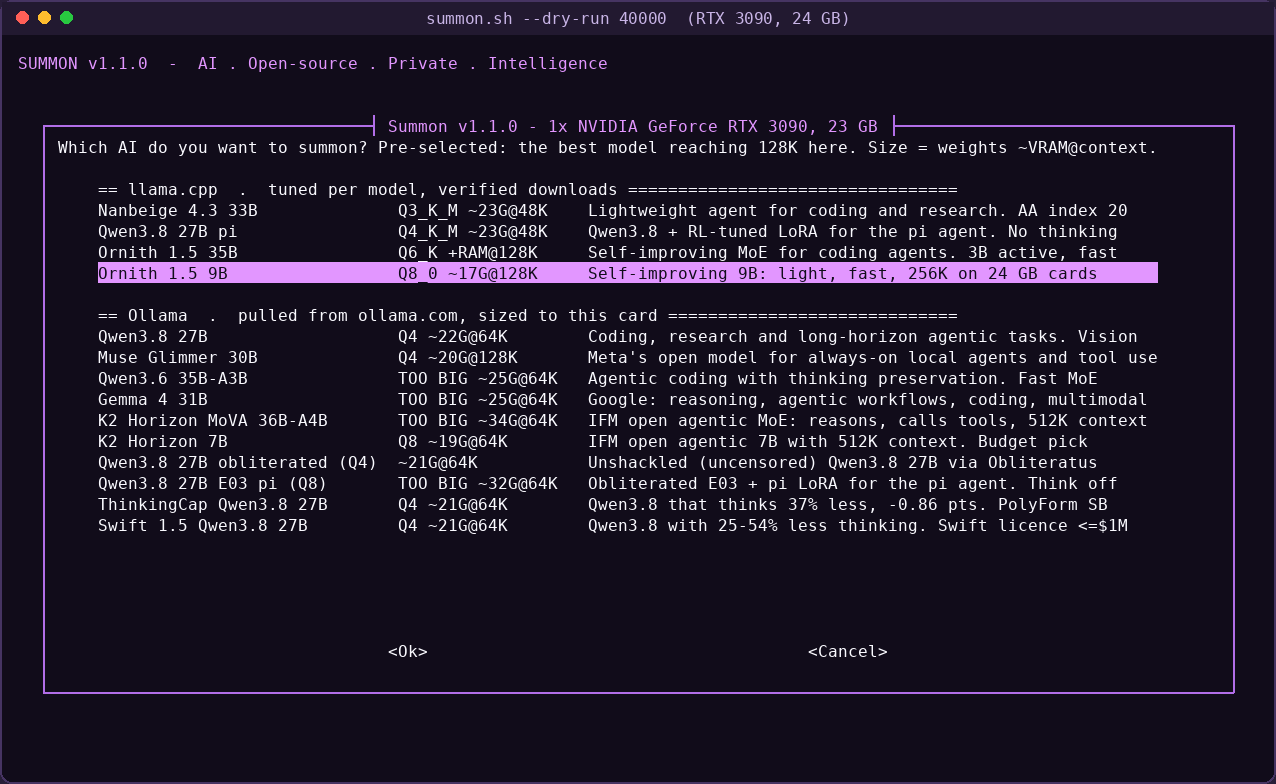
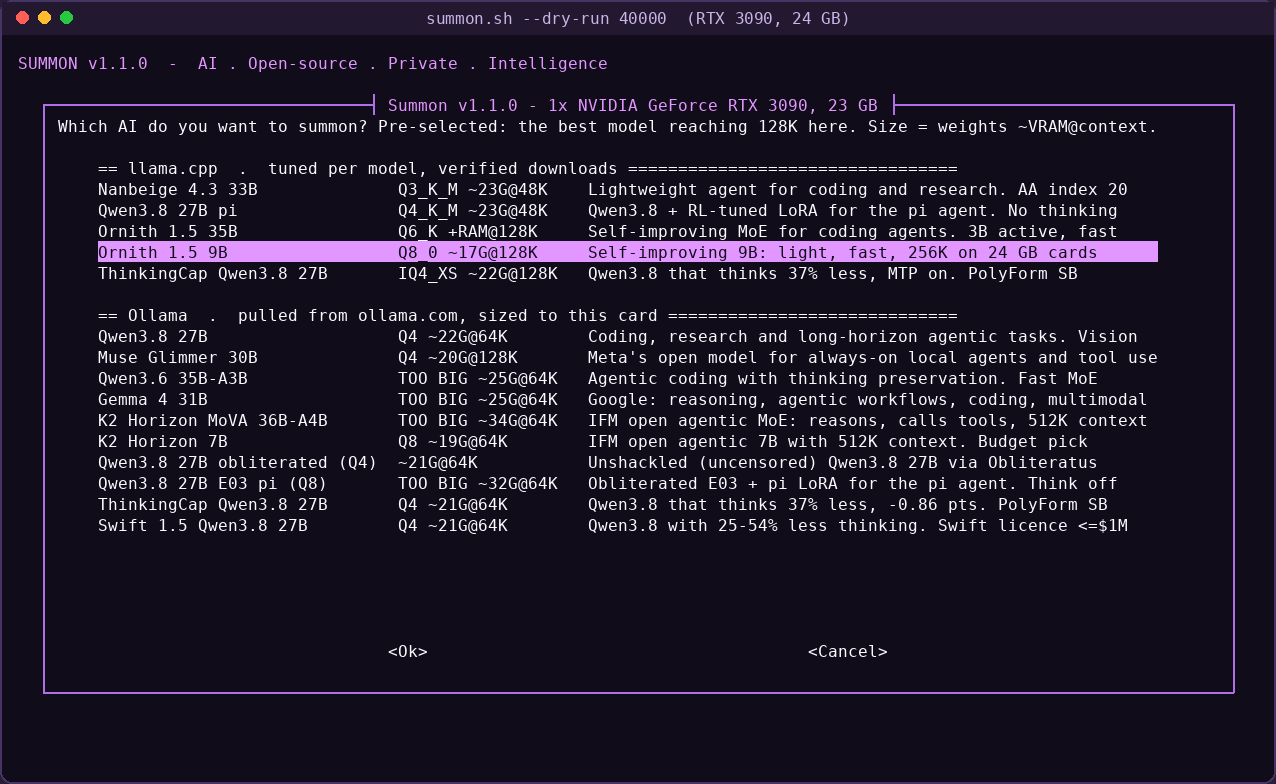
Add ThinkingCap Qwen3.8 27B to the llama.cpp catalog with its built-in MTP head
- bottlecapai GGUFs (Q8_0/Q6_K/Q4_K_M/IQ4_XS, sizes + sha256); dense, 64 KB/token cache + 4 KB MTP layer
- draft-mtp with --spec-draft-n-max 3 as its makers serve it (per-model LC_DRAFT_NMAX); base thinking-mode sampling
- listed last (PolyForm Small Business licence), so never the default; the Ollama row stays
- docs, changelog, screenshots and hero updated

Changed region(s): [[0.0306, 0.1224, 0.9169, 0.3673]]

diff --git a/docs/index.html b/docs/index.html
@@ -98,6 +98,7 @@
     <tr><td><b>Qwen3.8 27B pi</b></td><td>llama.cpp</td><td>Qwen3.8 27B plus a LoRA trained with RL to drive the pi coding agent. Thinking off, far fewer tokens. Vendor benchmarks only.</td><td>~48K (Q4_K_M)</td><td>256K with 8-bit weights</td></tr>
     <tr><td><b>Ornith 1.5 35B</b></td><td>llama.cpp</td><td>Fast MoE, ~3B active per token. Vendor benchmarks only.</td><td>128K, experts in RAM</td><td>256K with 8-bit weights</td></tr>
     <tr><td><b>Ornith 1.5 9B</b></td><td>llama.cpp</td><td>Fast and light. Vendor benchmarks only.</td><td>256K with 8-bit weights</td><td>256K with 8-bit weights</td></tr>
+    <tr><td><b>ThinkingCap Qwen3.8 27B</b></td><td>llama.cpp</td><td>Qwen3.8 27B that thinks ~37% less, with its built-in MTP head for faster decoding. PolyForm Small Business licence.</td><td>128K (IQ4_XS)</td><td>128K with 8-bit weights</td></tr>
     <tr><td><b>Ollama models</b></td><td>Ollama</td><td>Qwen3.8 27B, Qwen3.6 35B-A3B, Gemma 4 31B, K2 Horizon, Muse Glimmer…</td><td>Qwen3.8 27B at 64K</td><td>most at 128K, 8-bit</td></tr>
   </table>
   <p class="note">All of them are in one menu, sized live to your card. Every model serves an OpenAI-compatible API: point any client (pi, Continue, Open WebUI, your own code) at

diff --git a/tools/hero.py b/tools/hero.py
@@ -11,9 +11,9 @@ B = '/usr/share/fonts/truetype/dejavu/DejaVuSansMono-Bold.ttf'
 R = '/usr/share/fonts/truetype/dejavu/DejaVuSans.ttf'
 RB = '/usr/share/fonts/truetype/dejavu/DejaVuSans-Bold.ttf'
 PANELS = [   # one merged menu, two cards: the same models, re-sized to the VRAM each card has
-    ('01-model-menu-a6000.png', (40, 118, 1240, 560), '48 GB card', ['Nanbeige 4.3 33B', '128K · Q6_K'],
-     'Pre-selected. 14 models,\nllama.cpp + Ollama, one list'),
-    ('06-model-menu-3090.png', (40, 118, 1240, 560), '24 GB card', ['Ornith 1.5 9B', '128K · Q8_0'],
+    ('01-model-menu-a6000.png', (40, 96, 1240, 545), '48 GB card', ['Nanbeige 4.3 33B', '128K · Q6_K'],
+     'Pre-selected. 15 models,\nllama.cpp + Ollama, one list'),
+    ('06-model-menu-3090.png', (40, 96, 1240, 545), '24 GB card', ['Ornith 1.5 9B', '128K · Q8_0'],
      'Same list, re-sized: knows\nwhat fits and what won\'t'),
 ]
 
@@ -35,7 +35,7 @@ img.paste(grad, (0, 0), mask)
 d.text((330, 54), 'AI · OPEN-SOURCE · PRIVATE · INTELLIGENCE', font=tag, fill=(111, 214, 234))
 d.text((330, 82), 'One command turns your NVIDIA GPU into a private, OpenAI-compatible AI.', font=cap, fill=(214, 206, 228))
 
-PW, y = 840, 150
+PW, y = 820, 150
 for name, box, eng, models, note in PANELS:
     im = Image.open(os.path.join(IMG, name)).convert('RGB').crop(box)
     ph = int(im.height * PW / im.width)

diff --git a/README.md b/README.md
@@ -37,13 +37,14 @@ Piping a script into a shell gives it root. Read [summon.sh](summon.sh) first; i
 | **Qwen3.8 27B pi**: Qwen3.8 27B + a LoRA RL-tuned to drive the [pi](https://github.com/earendil-works/pi) coding agent, thinking off (vendor benchmarks) | llama.cpp | ~48K (Q4_K_M) | 256K, 8-bit weights |
 | **Ornith 1.5 35B**: fast MoE, ~3B active (vendor benchmarks) | llama.cpp | 128K with experts in RAM (needs ~30 GB free RAM) | 256K, 8-bit weights |
 | **Ornith 1.5 9B**: fast and light (vendor benchmarks) | llama.cpp | 256K, 8-bit weights | 256K, 8-bit weights |
+| **ThinkingCap Qwen3.8 27B**: Qwen3.8 27B that thinks ~37% less (vendor: -0.86 pts), built-in MTP head. PolyForm Small Business licence | llama.cpp | 128K, IQ4_XS | 128K, 8-bit weights |
 | **Ollama models**: Qwen3.8 27B, Qwen3.6 35B-A3B, Gemma 4 31B, K2 Horizon, Muse Glimmer… | Ollama | Qwen3.8 27B at 64K | most at 128K, 8-bit |
 
 ## Usage
 
 ```bash
 ./summon.sh [PORT]                          # the wizard: one menu with every model, sized to your card
-./summon.sh nanbeige|qwen38pi|ornith35b|ornith9b [PORT]   # skip the menu
+./summon.sh nanbeige|qwen38pi|ornith35b|ornith9b|thinkingcap [PORT]   # skip the menu
 ONLY=1,3 ./summon.sh [PORT]                 # pull several Ollama models at once (rows in list order)
 ./summon.sh --dry-run [PORT]                # plan only, installs nothing
 ./summon.sh --lock [PORT]                   # re-lock a rented pod's port to your current IP
@@ -61,7 +62,7 @@ Then point any OpenAI-compatible client at `http://localhost:PORT/v1` (rented po
 - **Each model's own chat template** (llama.cpp `--jinja`), so native tool calls and thinking blocks work. That's why Nanbeige and Ornith run on llama.cpp: Ollama's builds of them ship without tool support.
 - **Every layer on the GPU** (`--fit off`): if it doesn't fit, it fails loudly instead of silently crawling on the CPU.
 - **Host-RAM prompt cache** so side requests (chat titles, subagents) don't evict a 200K-token conversation.
-- **Speculative decoding** (v1.1.0): each model's draft plus n-gram drafts. Qwen3.8 uses its MTP head (+60-90% measured on base Qwen3.8), Ornith its built-in MTP layer, Nanbeige the optional Nanbeige4.1-3B draft model (~70% faster decoding, ~3x faster tool calls, community-measured). A draft that would cost weight precision on your card is offered, never forced. The model checks every drafted token, so quality holds on average, but outputs aren't bit-identical to a run without it: `SPEC=off` for reproducible runs.
+- **Speculative decoding** (v1.1.0): each model's draft plus n-gram drafts. Qwen3.8 uses its MTP head (+60-90% measured on base Qwen3.8), Ornith and ThinkingCap their built-in MTP layer (ThinkingCap: ~1.3x, measured by its makers), Nanbeige the optional Nanbeige4.1-3B draft model (~70% faster decoding, ~3x faster tool calls, community-measured). A draft that would cost weight precision on your card is offered, never forced. The model checks every drafted token, so quality holds on average, but outputs aren't bit-identical to a run without it: `SPEC=off` for reproducible runs.
 - **MoE experts in system RAM** (v1.1.0): a mixture-of-experts model that doesn't fit VRAM (Ornith 35B on a 24 GB card) keeps its experts in RAM and caches the hot ones on the GPU (llama.cpp `--cpu-moe` + `--moe-cache-mib`), shown as `+RAM` in the menu. Summon only offers it when the GPU cache holds at least 60% of the experts, and never pre-selects it.
 
 ## Screenshots

diff --git a/CHANGELOG.md b/CHANGELOG.md
@@ -5,6 +5,7 @@
 - **Draft models (speculative decoding).** Each llama.cpp model gets its draft, combined with n-gram drafts:
   - Qwen3.8 27B pi: Qwen3.8's MTP head (ggml-org's separate file, 3 GB). Measured on base Qwen3.8 27B: +60% decode on an RTX 3090, 1.9x on code.
   - Ornith 1.5 35B / 9B: the MTP layer built into the model file, no extra download.
+  - ThinkingCap Qwen3.8 27B (new on llama.cpp; the Ollama row stays): its built-in MTP layer, `--spec-draft-n-max 3` as its makers serve it (~1.3x measured on Q4_K_M). It thinks ~37% less than Qwen3.8, so the gains multiply. PolyForm Small Business licence; listed last, so it's never the default.
   - Nanbeige 4.3 33B: the Nanbeige4.1-3B draft model, padded once at install to the 33B's vocabulary (pad_draft.py, MIT, run in a throwaway container). Community-measured: ~70% faster decoding, ~3x faster tool calls.
   - The VRAM fit counts every draft. A draft that costs nothing is on by default; one that would lower the weights (Nanbeige's 3B on a 48 GB card: Q4_K_M instead of Q6_K at 128K) is asked about, with "No" pre-selected. `DRAFT=on|off` decides up front, `SPEC=off` turns all speculation off.
 - **MoE experts in system RAM.** Mixture-of-experts models that don't fit VRAM run with their routed experts in RAM and the hot ones cached on the GPU (`--cpu-moe` + `--moe-cache-mib`, which llama.cpp leaves off by default). Ornith 1.5 35B now runs on a 24 GB card (Q6_K at 128K with ~30 GB free RAM). Offered only when the GPU cache holds >= 60% of the experts; shown as `+RAM`; never pre-selected.
